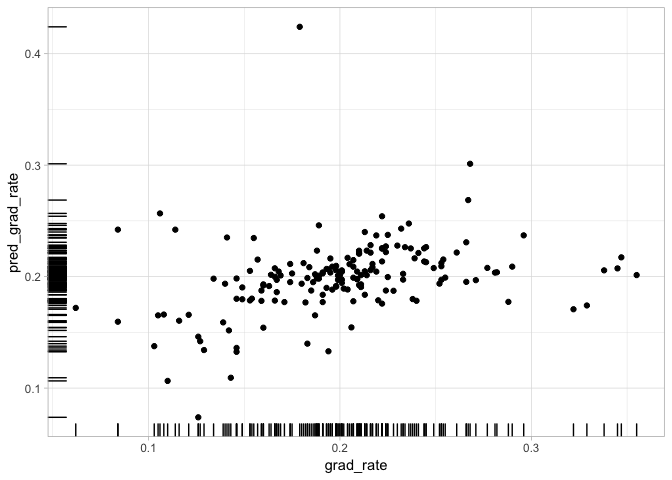
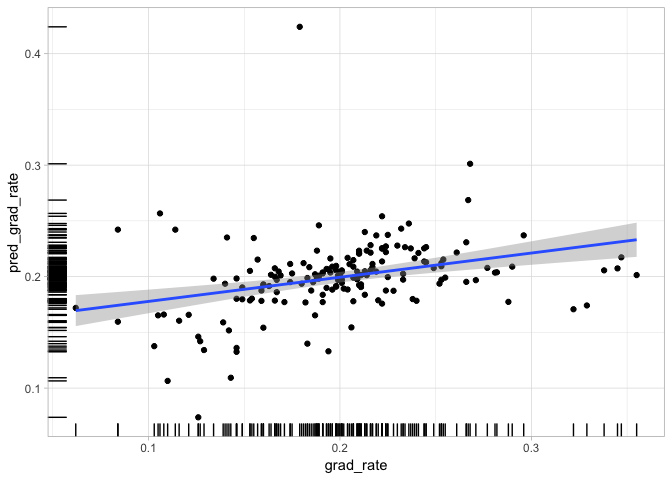
commiting linear lining.

Changed region(s): [[0.0938, 0.4688, 0.9688, 0.6875]]

diff --git a/classifier.md b/classifier.md
@@ -74,6 +74,7 @@ training_with_predictions <- add_predictions(training_without_outliers, model.10
 training_with_predictions %>% 
   ggplot(aes(x = grad_rate, y = pred_grad_rate)) +
   geom_point() + 
+  geom_smooth(method = "lm") + 
   geom_rug() +
   theme_light()
 ```
@@ -84,7 +85,7 @@ training_with_predictions %>%
 #histogram of scaled predictions
 training_with_predictions %>% 
   ggplot() +
-  geom_histogram(aes(x = scaled), bins = 25)
+  geom_histogram(aes(x = pred_grad_rate), bins = 25)
 ```
 
 ![](classifier_files/figure-gfm/add%20predictions%20back%20to%20training%20set-2.png)<!-- -->
@@ -99,6 +100,7 @@ testing_with_predictions <- add_predictions(testing, model.10, var = "pred_grad_
 testing_with_predictions %>% 
   ggplot(aes(x = grad_rate, y = pred_grad_rate)) +
   geom_point() + 
+  geom_smooth(method = "lm") + 
   geom_rug() +
   theme_light()
 ```
